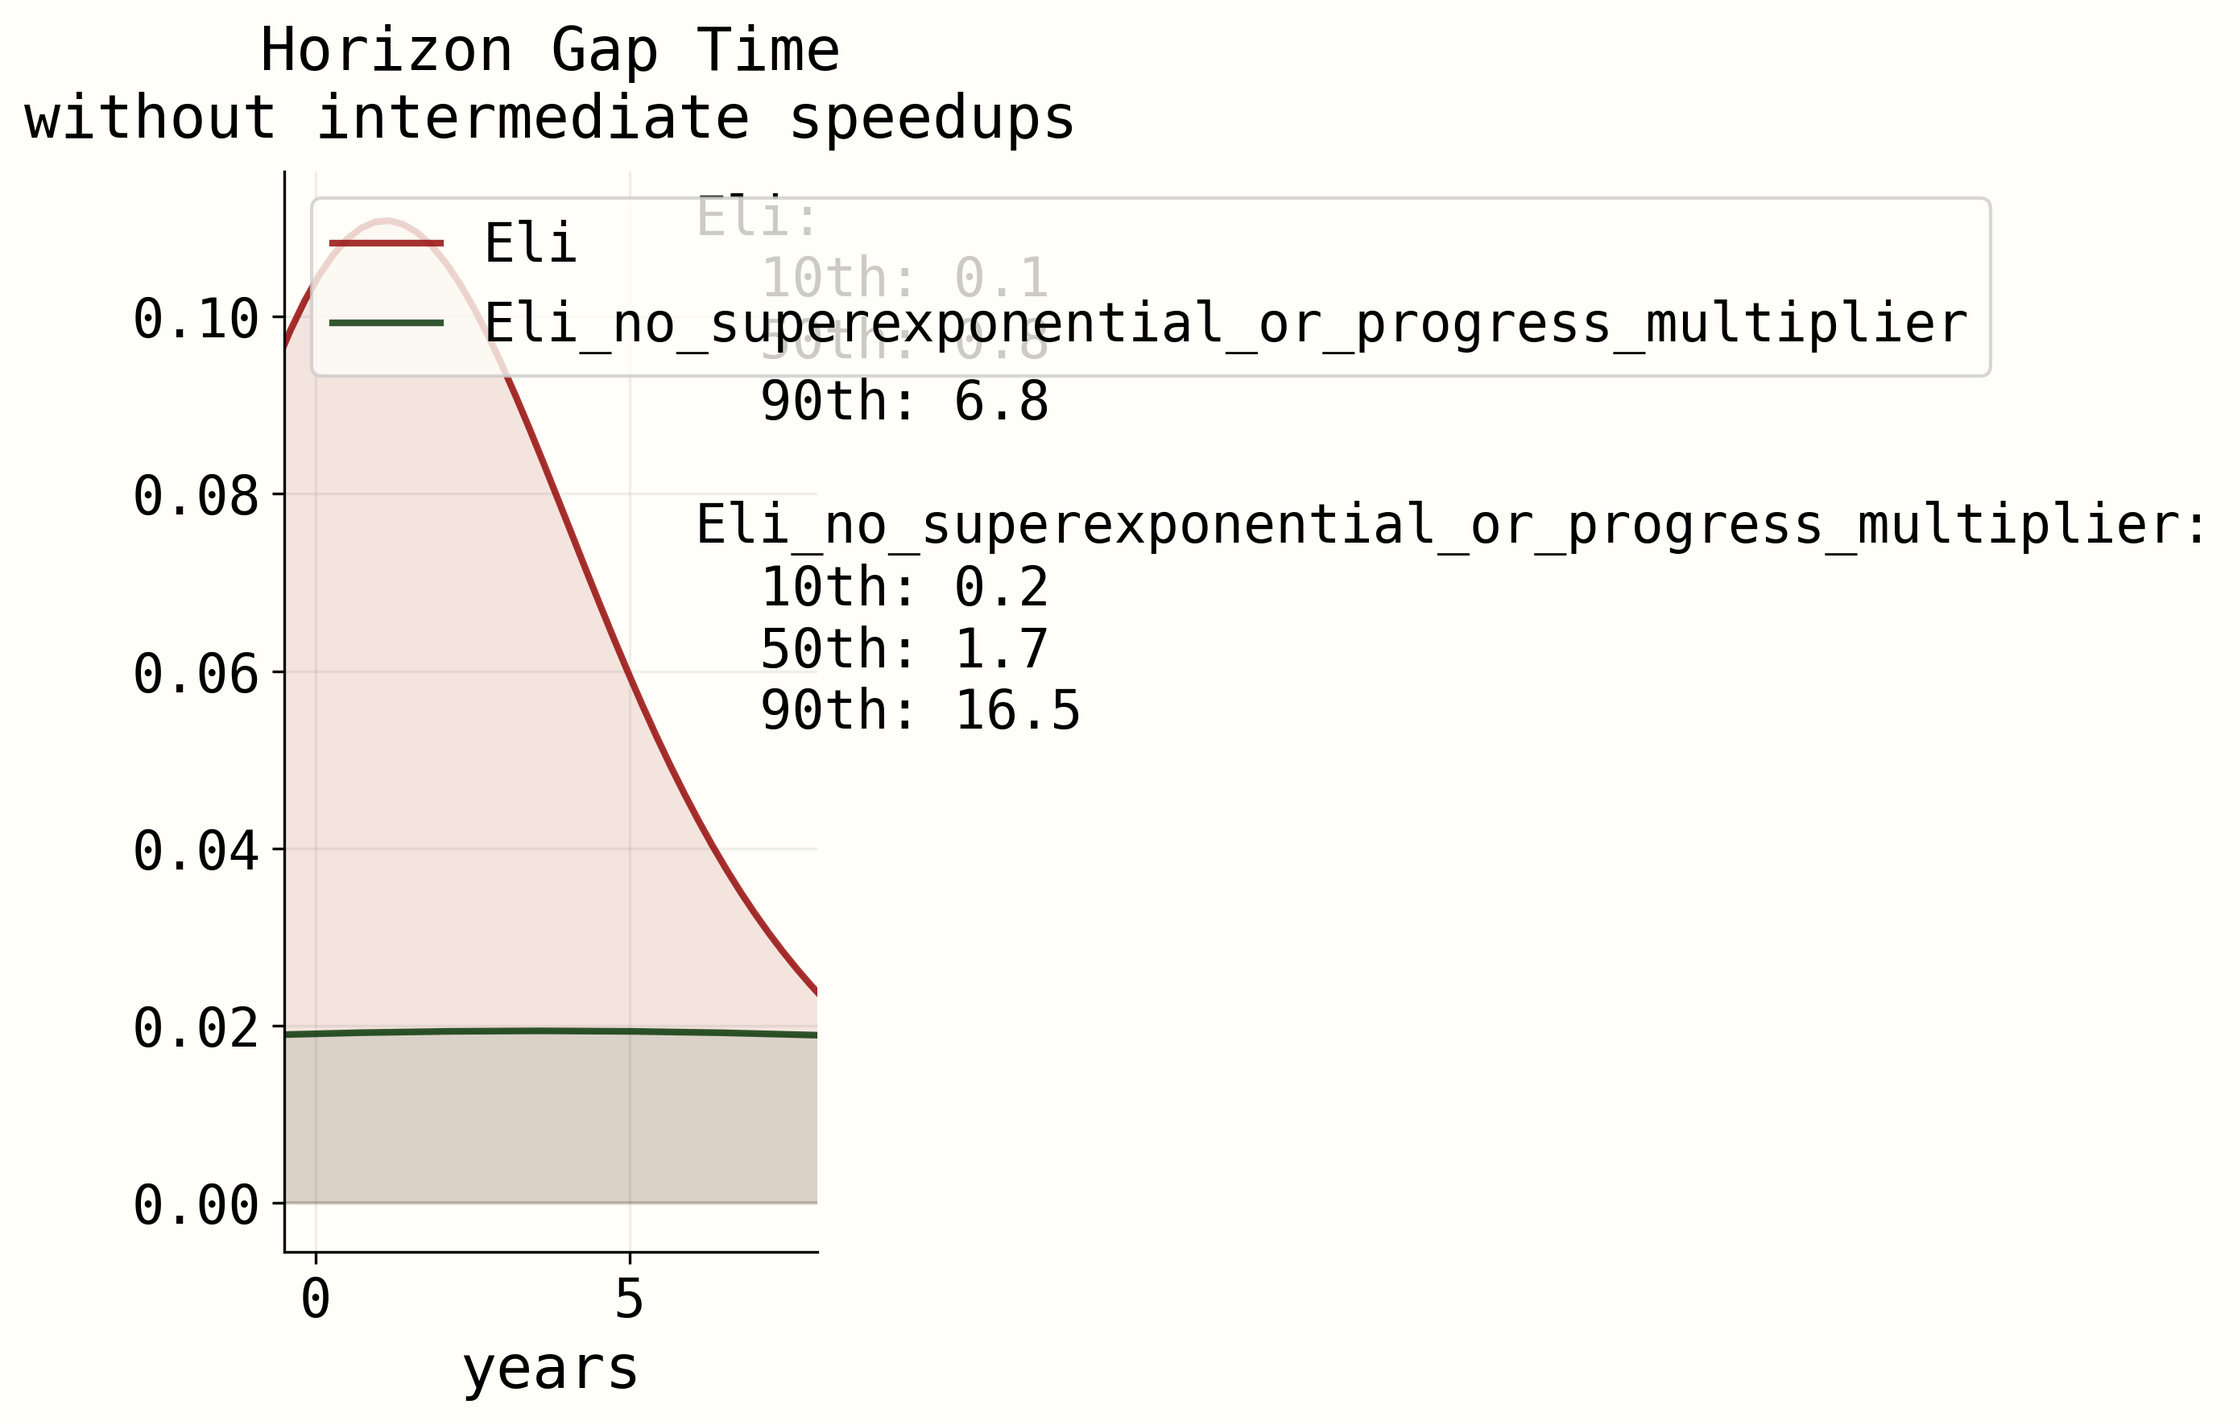
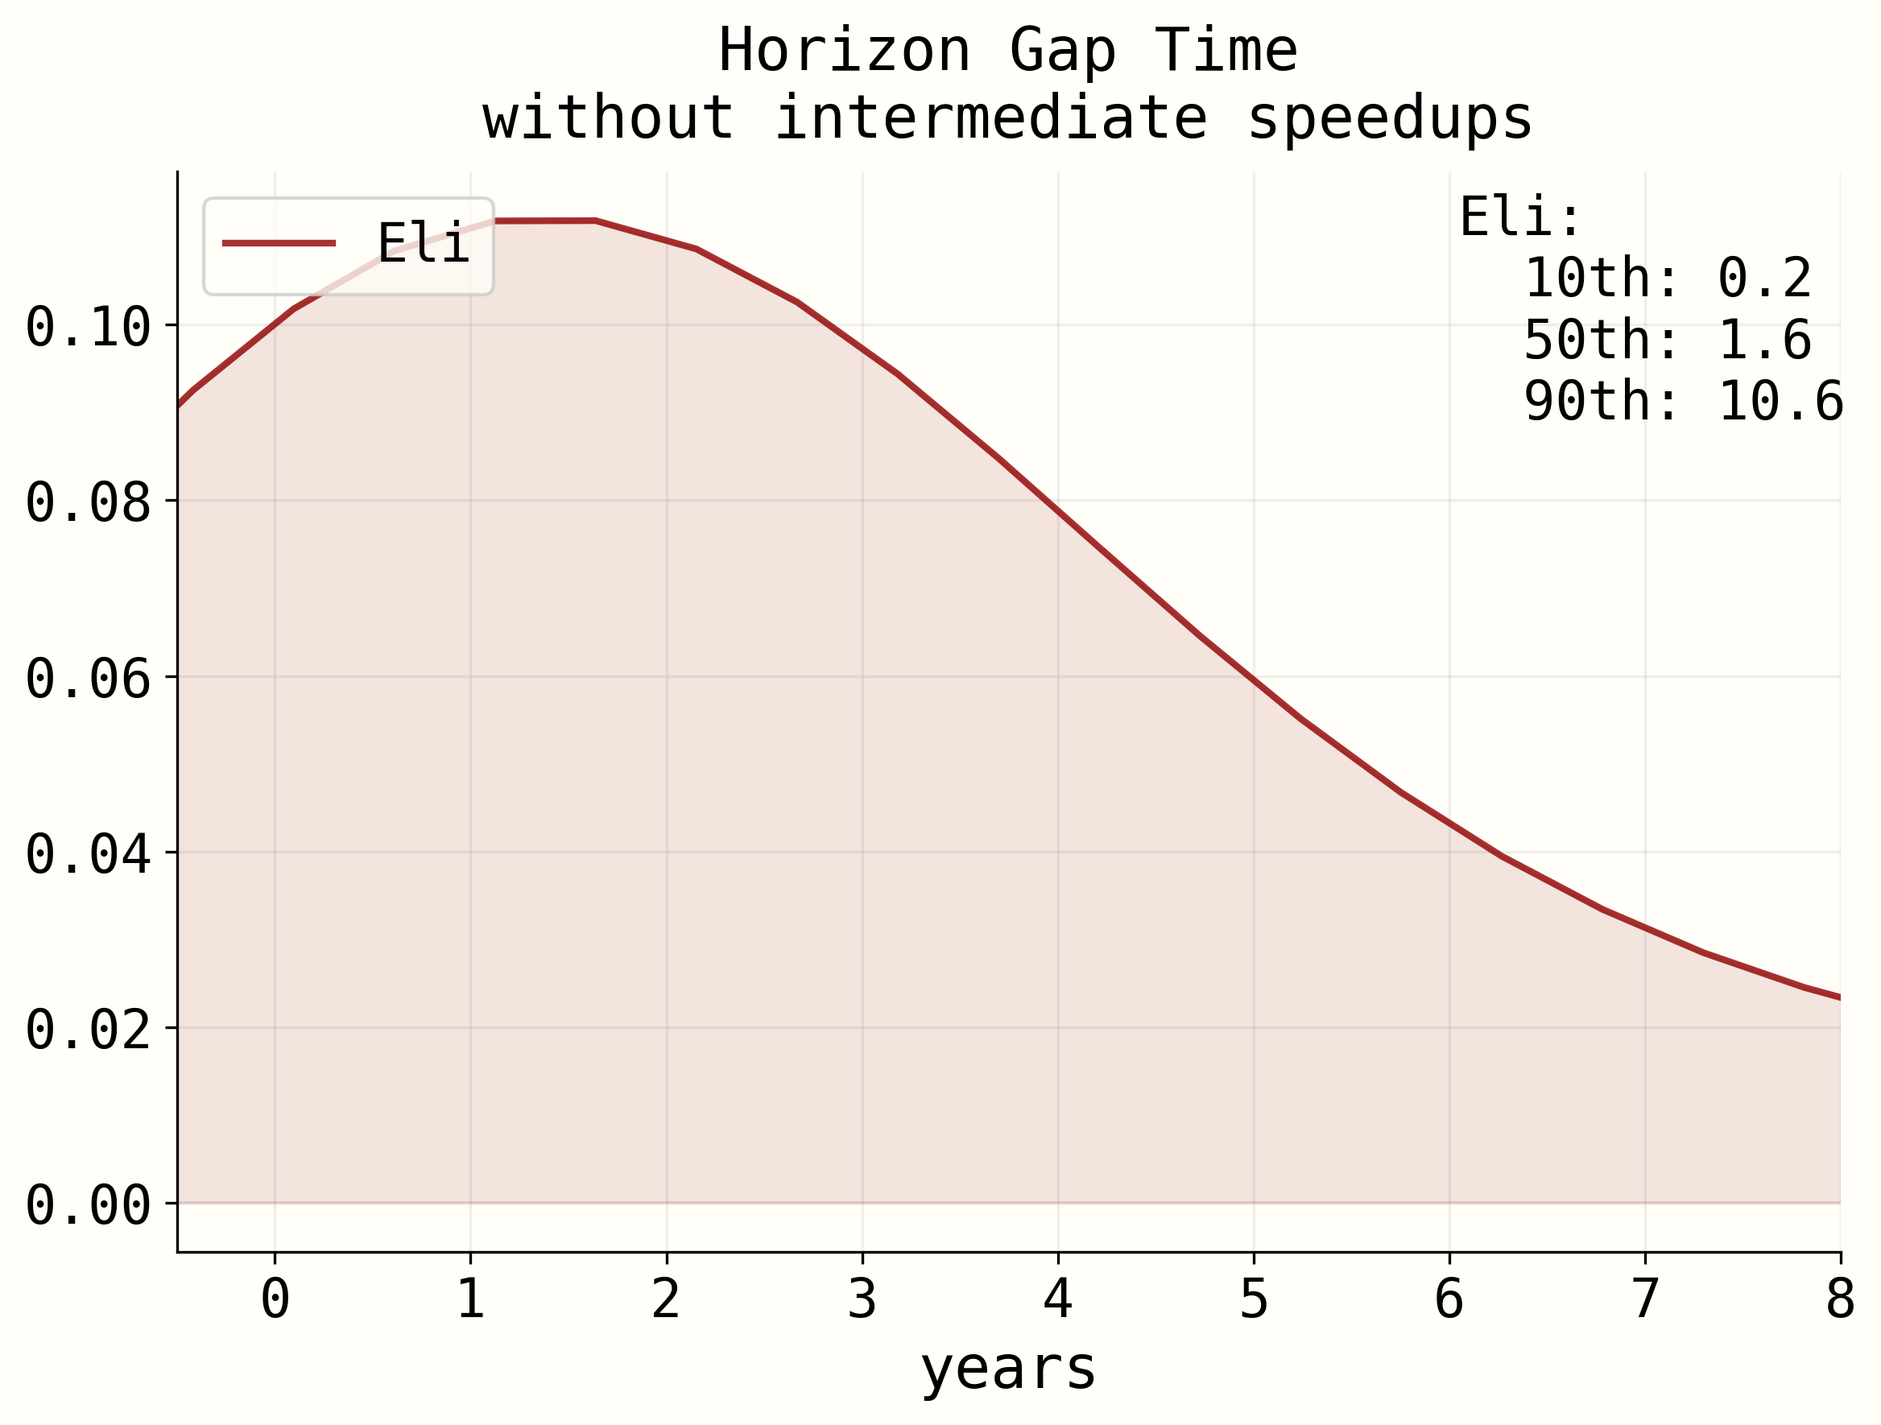
fix date + do plotting

diff --git a/timelines_may_2025_update/forecasting_timelines.py b/timelines_may_2025_update/forecasting_timelines.py
@@ -3,6 +3,7 @@ import numpy as np
 from scipy.stats import norm, lognorm, gaussian_kde
 import matplotlib.pyplot as plt
 import yaml
+import json
 from pathlib import Path
 from datetime import datetime
 from tqdm import tqdm
@@ -52,7 +53,7 @@ def weighted_geometric_mean(values, weights):
     normalized_weights = [w / weights_sum for w in weights]
     return np.exp(sum(w * np.log(x) for w, x in zip(normalized_weights, values)))
 
-def get_distribution_samples(config: dict, n_sims: int, correlation: float = 0.7) -> dict:
+def get_distribution_samples(config: dict, n_sims: int, correlation: float = 0.7, t_start: float = None) -> dict:
     """Generate correlated samples from all input distributions."""
     # First generate correlated standard normal variables
     n_vars = 3 + len(config["algorithmic_slowdowns"])  # Core params (excluding h_sat, h_SC, d, v_algorithmic vars) + A_values
@@ -117,12 +118,19 @@ def get_distribution_samples(config: dict, n_sims: int, correlation: float = 0.7
     samples["horizon_doubling_time"] = dist.ppf(uniform_samples[:, idx])
     idx += 1
 
-    # Handle t_sat as dates
-    today = datetime.now()
+    # Handle t_sat as dates - use t_start instead of current date
+    if t_start is not None:
+        # Convert t_start to year and month for date calculations
+        start_year = int(t_start)
+        start_month = int((t_start % 1) * 12) + 1
+        reference_date = datetime(start_year, start_month, 1)
+    else:
+        reference_date = datetime.now()
+    
     date1 = datetime.strptime(config["distributions"]["t_sat_ci"][0], "%Y-%m-%d")
     date2 = datetime.strptime(config["distributions"]["t_sat_ci"][1], "%Y-%m-%d")
-    months1 = (date1.year - today.year) * 12 + date1.month - today.month
-    months2 = (date2.year - today.year) * 12 + date2.month - today.month
+    months1 = (date1.year - reference_date.year) * 12 + date1.month - reference_date.month
+    months2 = (date2.year - reference_date.year) * 12 + date2.month - reference_date.month
     
     # Create lognormal distribution for months until saturation
     dist = get_lognormal_from_80_ci(months1, months2)
@@ -275,9 +283,11 @@ def get_labor_growth_rate(t: float, labor_growth_schedule: list) -> float:
             
     return current_rate
 
-def run_single_scenario(samples: dict, params: dict, forecaster_config: dict, simulation_config: dict) -> list[float]:
+def run_single_scenario(samples: dict, params: dict, forecaster_config: dict, simulation_config: dict) -> tuple[list[float], list[list[float]], list[list[float]]]:
     """Run simulation for a single scenario configuration."""
     successful_times = []
+    research_trajectories = []  # Store research stock over time for each simulation
+    time_trajectories = []      # Store corresponding time points
     _, g_SC = calculate_gaps(samples)  # Use sampled h_sat values
     
     # Get software progress share from samples
@@ -289,16 +299,21 @@ def run_single_scenario(samples: dict, params: dict, forecaster_config: dict, si
     labor_power = simulation_config["labor_power"]
     
     for i in tqdm(range(len(samples["horizon_doubling_time"])), desc="Running simulations", leave=False):
-        # Initialize simulation at current time
-        t = params["t_0"] + samples["t_sat"][i]/12  # Convert months to years
+        # Initialize simulation at current time minus internal delay
+        t = params["t_0"] + samples["t_sat"][i]/12 - samples["d"][i]/12  # Convert months to years
         g_t = 0
         
         # Reset labor and research variables for each simulation
         current_labor_pool = labor_pool
         current_research_stock = research_stock
         
+        # Track research stock and time for this simulation
+        sim_research_trajectory = [current_research_stock]
+        sim_time_trajectory = [t]
+        
         # Run timesteps
         max_time = simulation_config["max_time"]  # Get max_time from simulation config
+        
         for _ in range(params["n_steps"]):
             # Calculate progress fraction
             progress_fraction = g_t / g_SC[i]
@@ -342,14 +357,7 @@ def run_single_scenario(samples: dict, params: dict, forecaster_config: dict, si
             g_t += v_t * (params["dt"]/30.5)
             
             if g_t >= g_SC[i]:
-                completion_time = t
-                completion_time -= samples["d"][i]/12  # Convert months to years
-                
-                # Print research stock if completion is in 2027
-                # if 2027 <= completion_time < 2028:
-                #     print(f"Simulation {i}: Research stock at completion in {completion_time:.2f}: {current_research_stock:.2e}")
-                
-                successful_times.append(completion_time)
+                successful_times.append(t)
                 break
                 
             t += params["dt"]/365  # Convert days to years
@@ -359,10 +367,17 @@ def run_single_scenario(samples: dict, params: dict, forecaster_config: dict, si
                 successful_times.append(max_time)
                 break
             
-            # Update research stock
+            # Update research stock and store trajectory (only if continuing)
             current_research_stock = new_research_stock
+            sim_research_trajectory.append(current_research_stock)
+            sim_time_trajectory.append(t)
+        
+        # Store trajectories for this simulation
+        research_trajectories.append(sim_research_trajectory)
+        time_trajectories.append(sim_time_trajectory)
+        # import pdb; pdb.set_trace()
             
-    return successful_times
+    return successful_times, research_trajectories, time_trajectories
 
 def setup_plotting_style(plotting_style: dict):
     """Set up matplotlib style according to config."""
@@ -933,7 +948,163 @@ def format_year_month(year_decimal: float, max_time: float) -> str:
                   'Jul', 'Aug', 'Sep', 'Oct', 'Nov', 'Dec'][month-1]
     return f"{month_name} {year}"
 
-def run_and_plot_are_scenarios(config_path: str = "params.yaml") -> tuple[plt.Figure, plt.Figure, plt.Figure, plt.Figure, dict]:
+def create_research_trajectory_plot(all_forecaster_trajectories: dict, config: dict, plotting_style: dict, fonts: dict) -> plt.Figure:
+    """Create figure showing median research stock trajectory for simulations completing in first half of 2027."""
+    background_color = plotting_style.get("colors", {}).get("background", "#FFFEF8")
+    bg_rgb = tuple(int(background_color.lstrip('#')[i:i+2], 16)/255 for i in (0, 2, 4))
+    
+    fig = plt.figure(figsize=(12, 8), dpi=150, facecolor=bg_rgb)
+    ax = fig.add_subplot(111)
+    ax.set_facecolor(bg_rgb)
+    
+    # Dictionary to store median trajectory data for JSON export
+    trajectory_data = {}
+    
+    # Plot trajectory for each forecaster
+    for forecaster_name, (completion_times, research_trajectories, time_trajectories) in all_forecaster_trajectories.items():
+        # Filter for simulations that complete in first half of 2027
+        filtered_research_trajectories = []
+        filtered_time_trajectories = []
+        
+        for i, completion_time in enumerate(completion_times):
+            if 2027.0 <= completion_time < 2027.5:
+                # Get the full trajectory for this simulation
+                full_research_traj = research_trajectories[i]
+                full_time_traj = time_trajectories[i]
+                
+                filtered_research_trajectories.append(full_research_traj)
+                filtered_time_trajectories.append(full_time_traj)
+
+                # if max(full_time_traj) > 2027.5:
+                #     import pdb; pdb.set_trace()
+        
+        if not filtered_research_trajectories:
+            print(f"No simulations for {forecaster_name} completed in first half of 2027")
+            continue
+            
+        print(f"{forecaster_name}: {len(filtered_research_trajectories)} simulations completed in first half of 2027")
+        
+        # Find the common time grid for interpolation
+        # Get the range of all time points
+        all_times = []
+        for time_traj in filtered_time_trajectories:
+            all_times.extend(time_traj)
+        
+        min_time = min(all_times)
+        max_time = max(all_times)
+        
+        # Create a uniform time grid
+        time_grid = np.linspace(min_time, max_time, 500)
+        
+        # Interpolate each trajectory onto the common time grid
+        interpolated_trajectories = []
+        for research_traj, time_traj in zip(filtered_research_trajectories, filtered_time_trajectories):
+            # Interpolate research stock values onto the time grid
+            interp_research = np.interp(time_grid, time_traj, research_traj)
+            interpolated_trajectories.append(interp_research)
+        
+        # Calculate median and percentiles once
+        interpolated_trajectories = np.array(interpolated_trajectories)
+        median_trajectory = np.median(interpolated_trajectories, axis=0)
+        p25_trajectory = np.percentile(interpolated_trajectories, 25, axis=0)
+        p75_trajectory = np.percentile(interpolated_trajectories, 75, axis=0)
+        
+        # Store median trajectory data for JSON export
+        trajectory_points = []
+        for time_val, median_val, p25_val, p75_val in zip(time_grid, median_trajectory, p25_trajectory, p75_trajectory):
+            trajectory_points.append({
+                "time": float(time_val),
+                "median_research_stock": float(median_val),
+                "p25_research_stock": float(p25_val),
+                "p75_research_stock": float(p75_val)
+            })
+
+        trajectory_data[forecaster_name] = {
+            "trajectory": trajectory_points,
+            "num_simulations": len(filtered_research_trajectories)
+        }
+
+        # Get color from config
+        base_name = forecaster_name.split(" (")[0].lower()
+        color = config["forecasters"][base_name]["color"]
+        
+        # Plot median trajectory
+        ax.plot(time_grid, median_trajectory, '-', color=color, label=f"{forecaster_name} (median)", 
+                linewidth=2.5, alpha=0.9, zorder=2)
+        
+        # Plot percentiles as shaded area (reusing calculated values)
+        ax.fill_between(time_grid, p25_trajectory, p75_trajectory, color=color, alpha=0.2)
+
+    # Save trajectory data to JSON file
+    output_dir = Path("figures")
+    output_dir.mkdir(parents=True, exist_ok=True)
+    
+    with open(output_dir / "research_trajectory_data.json", 'w') as f:
+        json.dump(trajectory_data, f, indent=2)
+    
+    print(f"Saved median trajectory data to {output_dir / 'research_trajectory_data.json'}")
+    
+    # Configure plot styling
+    title = ax.set_title("Research Stock Trajectory\n(Simulations completing Jan-Jun 2027)",
+                 fontsize=plotting_style["font"]["sizes"]["title"],
+                 pad=15)
+    title.set_fontproperties(fonts['regular'])
+    
+    xlabel = ax.set_xlabel("Year", 
+                 fontsize=plotting_style["font"]["sizes"]["axis_labels"],
+                 labelpad=10)
+    xlabel.set_fontproperties(fonts['regular_small'])
+    
+    ylabel = ax.set_ylabel("Research Stock", 
+                  fontsize=plotting_style["font"]["sizes"]["axis_labels"],
+                  labelpad=10)
+    ylabel.set_fontproperties(fonts['regular_small'])
+    
+    # Use scientific notation for y-axis
+    ax.ticklabel_format(style='scientific', axis='y', scilimits=(0,0))
+    
+    # Set x-axis to show years
+    current_year = datetime.now().year
+    x_min = current_year
+    x_max = 2028.0  # End at the end of 2027 / beginning of 2028
+    ax.set_xlim(x_min, x_max)
+    
+    # Create custom x-ticks showing quarters or half-years for better resolution
+    x_ticks = []
+    x_labels = []
+    for year in range(current_year, 2029):
+        if year <= 2027:
+            x_ticks.extend([year, year + 0.5])
+            x_labels.extend([str(year), f"{year}.5"])
+        else:
+            x_ticks.append(year)
+            x_labels.append(str(year))
+    
+    ax.set_xticks(x_ticks)
+    ax.set_xticklabels(x_labels)
+    
+    # Grid and spines
+    ax.grid(True, alpha=0.2, zorder=0)
+    ax.set_axisbelow(True)
+    ax.spines['top'].set_visible(False)
+    ax.spines['right'].set_visible(False)
+    
+    # Add legend
+    legend = ax.legend(loc='upper left', fontsize=plotting_style["font"]["sizes"]["legend"])
+    for text in legend.get_texts():
+        text.set_fontproperties(fonts['regular_legend'])
+    
+    # Configure ticks
+    ax.tick_params(axis="both", 
+                   labelsize=plotting_style["font"]["sizes"]["ticks"])
+    for tick in ax.get_xticklabels() + ax.get_yticklabels():
+        tick.set_fontproperties(fonts['regular_legend'])
+        if tick in ax.get_xticklabels():
+            tick.set_rotation(45)
+    
+    return fig
+
+def run_and_plot_sc_scenarios(config_path: str = "params.yaml") -> tuple[plt.Figure, plt.Figure, plt.Figure, plt.Figure, plt.Figure, dict]:
     """Run SC simulations with different slowdown combinations and plot results for multiple forecasters."""
     print("Loading configuration...")
     # Load configuration
@@ -943,19 +1114,19 @@ def run_and_plot_are_scenarios(config_path: str = "params.yaml") -> tuple[plt.Fi
     # Set up fonts first
     fonts = setup_plotting_style(plotting_style)
     
-    # Get current date as decimal year
-    current_date = datetime.now()
-    current_year_decimal = current_date.year + (current_date.month - 1) / 12 + (current_date.day - 1) / 365.25
+    # Use t_start from configuration instead of current date
+    t_start = config["simulation"]["t_start"]
     
     # Store results for each forecaster
     all_forecaster_headline_results = {}
     all_forecaster_samples = {}
+    all_forecaster_trajectories = {}  # Store trajectory data
     
     # Get shared simulation parameters
     sim_params = {
         "n_steps": config["simulation"]["n_steps"],
         "dt": config["simulation"]["dt"],
-        "t_0": current_year_decimal  # Use exact current date as decimal year
+        "t_0": t_start  # Use t_start from config instead of current date
     }
     
     # Run simulations for each forecaster
@@ -965,12 +1136,13 @@ def run_and_plot_are_scenarios(config_path: str = "params.yaml") -> tuple[plt.Fi
         print(f"\nProcessing {name}'s forecasts...")
         
         # Generate samples
-        samples = get_distribution_samples(forecaster_config, config["simulation"]["n_sims"])
+        samples = get_distribution_samples(forecaster_config, config["simulation"]["n_sims"], t_start=t_start)
         all_forecaster_samples[name] = samples
         
         # Run simulation
-        results = run_single_scenario(samples, sim_params, forecaster_config, config["simulation"])
+        results, research_trajectories, time_trajectories = run_single_scenario(samples, sim_params, forecaster_config, config["simulation"])
         all_forecaster_headline_results[name] = results
+        all_forecaster_trajectories[name] = (results, research_trajectories, time_trajectories)
     
     print("\nGenerating plots...")
     # Create plots
@@ -979,9 +1151,10 @@ def run_and_plot_are_scenarios(config_path: str = "params.yaml") -> tuple[plt.Fi
     
     fig_headline = create_headline_plot(all_forecaster_headline_results, bins, bin_width, config, plotting_style, fonts)
     fig_inputs, fig_derived = create_distribution_plots(all_forecaster_samples, config, plotting_style, fonts)
+    fig_research_trajectory = create_research_trajectory_plot(all_forecaster_trajectories, config, plotting_style, fonts)
     
     # Apply tight layout
-    for fig in [fig_headline, fig_inputs, fig_derived]:
+    for fig in [fig_headline, fig_inputs, fig_derived, fig_research_trajectory]:
         fig.tight_layout()
     
     # Create output directory if it doesn't exist
@@ -993,12 +1166,13 @@ def run_and_plot_are_scenarios(config_path: str = "params.yaml") -> tuple[plt.Fi
     fig_headline.savefig(output_dir / "combined_headline.png", dpi=300, bbox_inches="tight")
     fig_inputs.savefig(output_dir / "combined_inputs.png", dpi=300, bbox_inches="tight")
     fig_derived.savefig(output_dir / "combined_derived.png", dpi=300, bbox_inches="tight")
+    fig_research_trajectory.savefig(output_dir / "research_trajectory_2027.png", dpi=300, bbox_inches="tight")
     
     # Close all figures to free memory
     plt.close("all")
     
-    return fig_headline, None, fig_inputs, fig_derived, all_forecaster_headline_results
+    return fig_headline, None, fig_inputs, fig_derived, fig_research_trajectory, all_forecaster_headline_results
 
 if __name__ == "__main__":
-    run_and_plot_are_scenarios()
+    run_and_plot_sc_scenarios()
     print(f"\nSimulation completed at {datetime.now().strftime('%Y-%m-%d %H:%M:%S')}")
